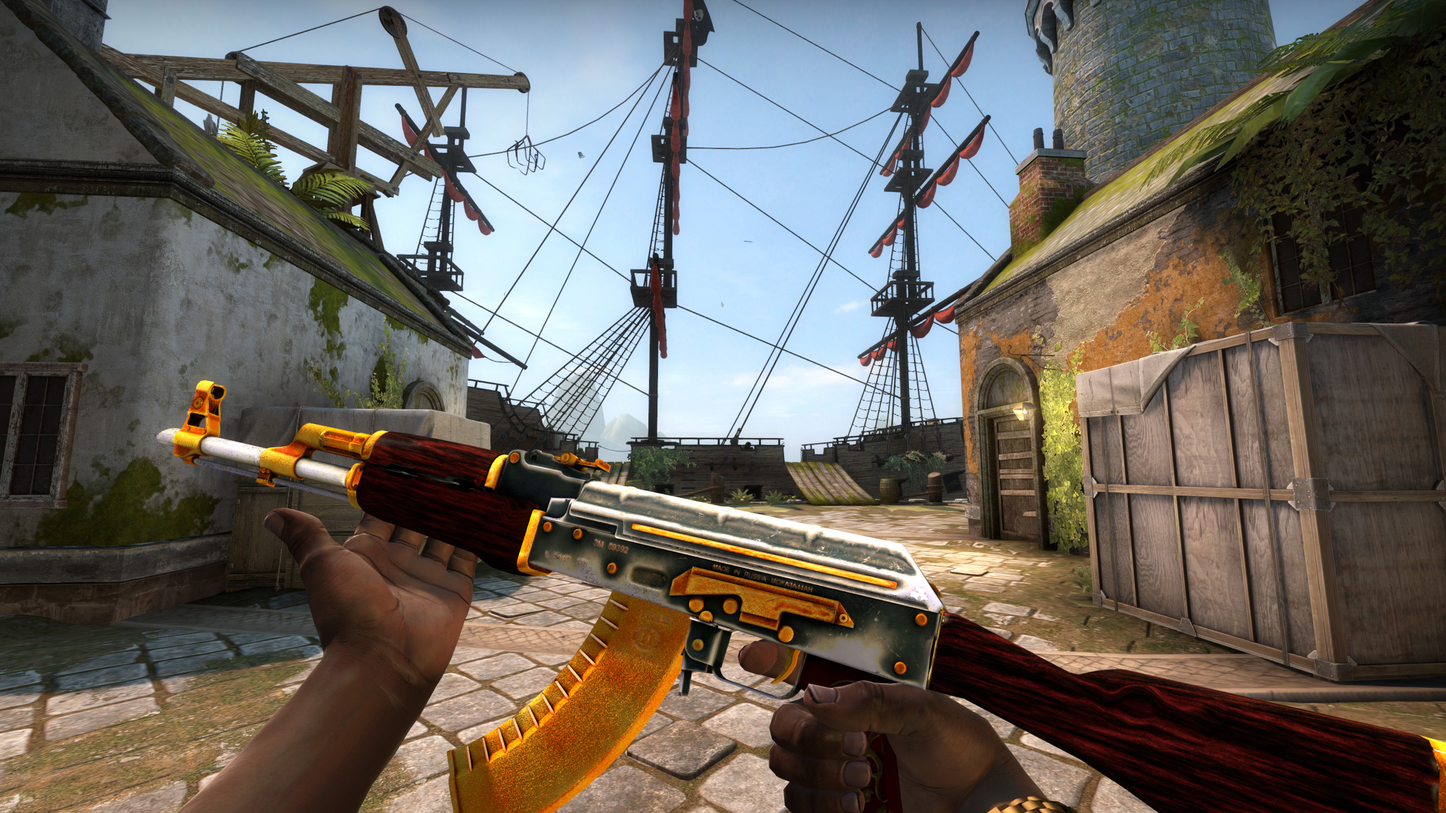
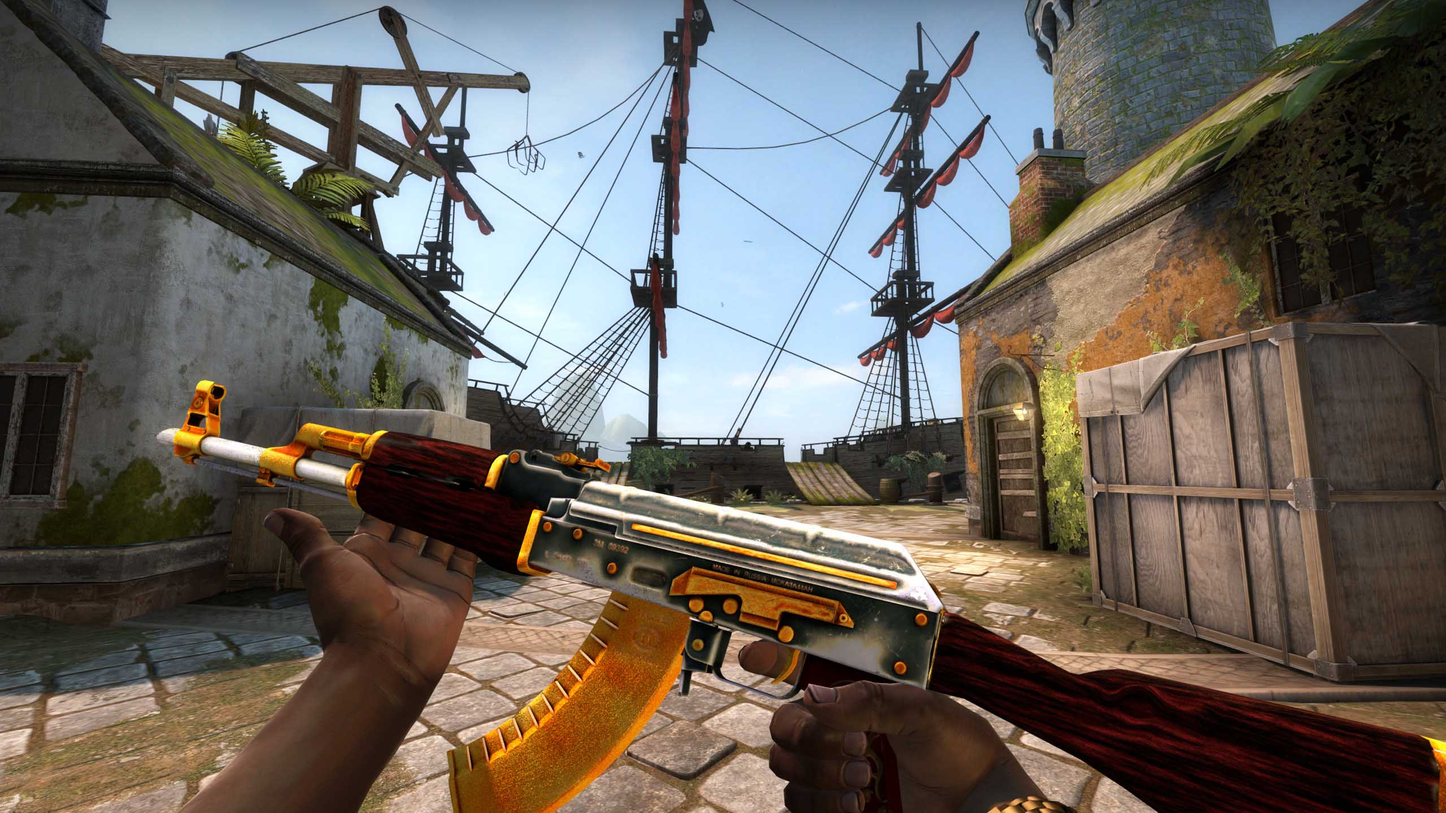
Speed Improvement
Compressed images and fixed typo

diff --git a/index.html b/index.html
@@ -522,7 +522,7 @@
 			<a name="about">
 			<div class="thumbnail"><div class="border"><img src="imgs/about/Selfie1.jpg" alt="Me with the young boy Franklin"/></div></div>
 			<div class="textwrapper">
-				<p>Eric Barrett is an artist from the island of Newfoundland. He talks to himself a lot but if you tell him that he’ll claim it’s thinking out loud. He’ll also say he doesn’t snore, which is also a blatant lie. He failed out of computer engineering to pursue his dream of creating stuff. Since he was a kid he has wanted to develop video games. He's also obviously a very talented web designer and hey, He’s not that bad with a camera either. If you happen to want to hire him for anything contact him at: neverloiter@gmail.com. </p>
+				<p>Eric Barrett is an artist from the island of Newfoundland. He talks to himself a lot but if you tell him that he’ll claim it’s thinking out loud. He’ll also say he doesn’t snore, which is also a blatant lie. He failed out of computer engineering to pursue his dream of creating stuff. Since he was a kid he has wanted to develop video games. He's also obviously a very talented web designer and hey, he’s not that bad with a camera either. If you happen to want to hire him for anything contact him at: neverloiter@gmail.com. </p>
 				<h1>What does this site offer?</h1>
 				<p>Currently there are some pretty pictures, ametaur music, and some CSGO Skins. But in the future I want to bring so much more. Further down the road <strong>I want to do cool stuff</strong> like develop <strong><u>a video game</u></strong>, release <strong><u>a DnD setting</u></strong>, design <strong><u>clothes</u></strong>, release <strong><u>an album</u></strong>, and get into <strong><u>comedy and film/acting.</u></strong></p>
 				<h1>What is No Loitering?</h1>

diff --git a/layout.css b/layout.css
@@ -5,7 +5,7 @@ html {
 }
 
 body {
-	background-image: url("imgs/website background.png"), url("imgs/tilex.png"), url("imgs/tiley.png");
+	background-image: url("imgs/website background.jpg"), url("imgs/tilex.jpg"), url("imgs/tiley.jpg");
 	background-repeat: no-repeat, repeat-x, repeat;
 	background-position: right, left, bottom;
 	height: 100%;

diff --git a/mobile-layout.css b/mobile-layout.css
@@ -5,7 +5,7 @@ html {
 }
 
 body {
-	background-image: url("imgs/website background.png"), url("imgs/tilex.png"), url("imgs/tiley.png");
+	background-image: url("imgs/website background.jpg"), url("imgs/tilex.jpg"), url("imgs/tiley.jpg");
 	background-repeat: no-repeat, repeat-x, repeat;
 	background-position: right, left, bottom;
 	height: 100%;
